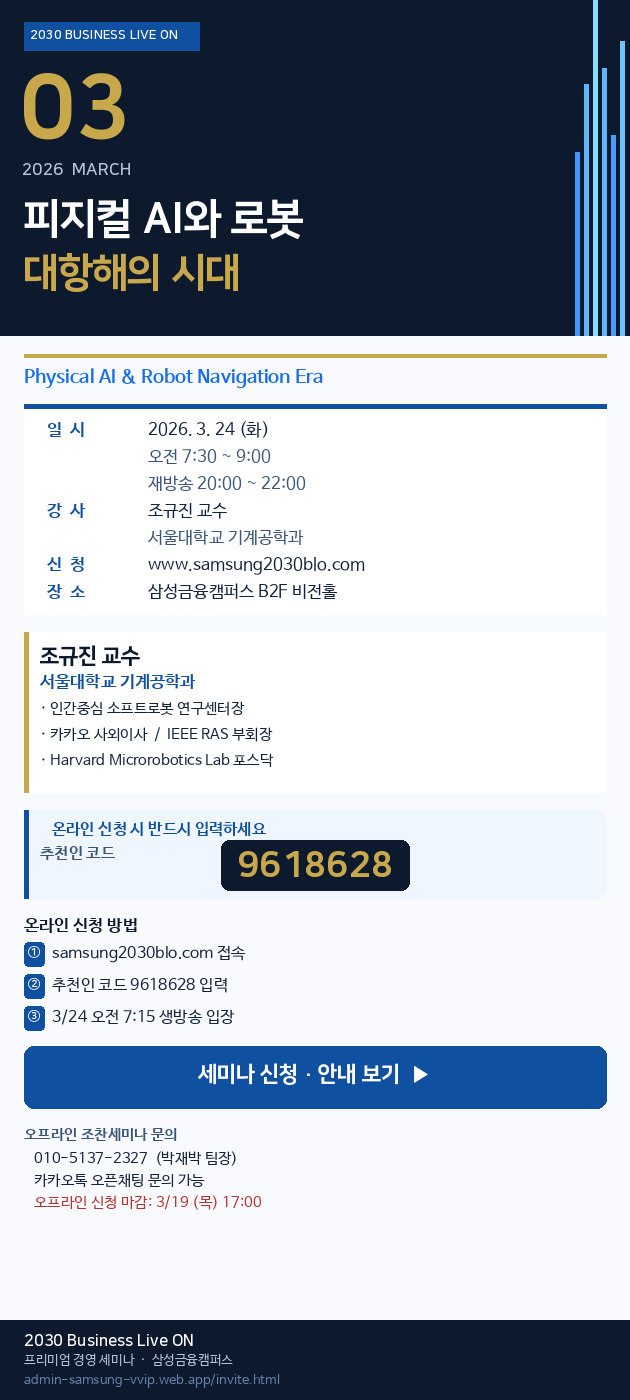
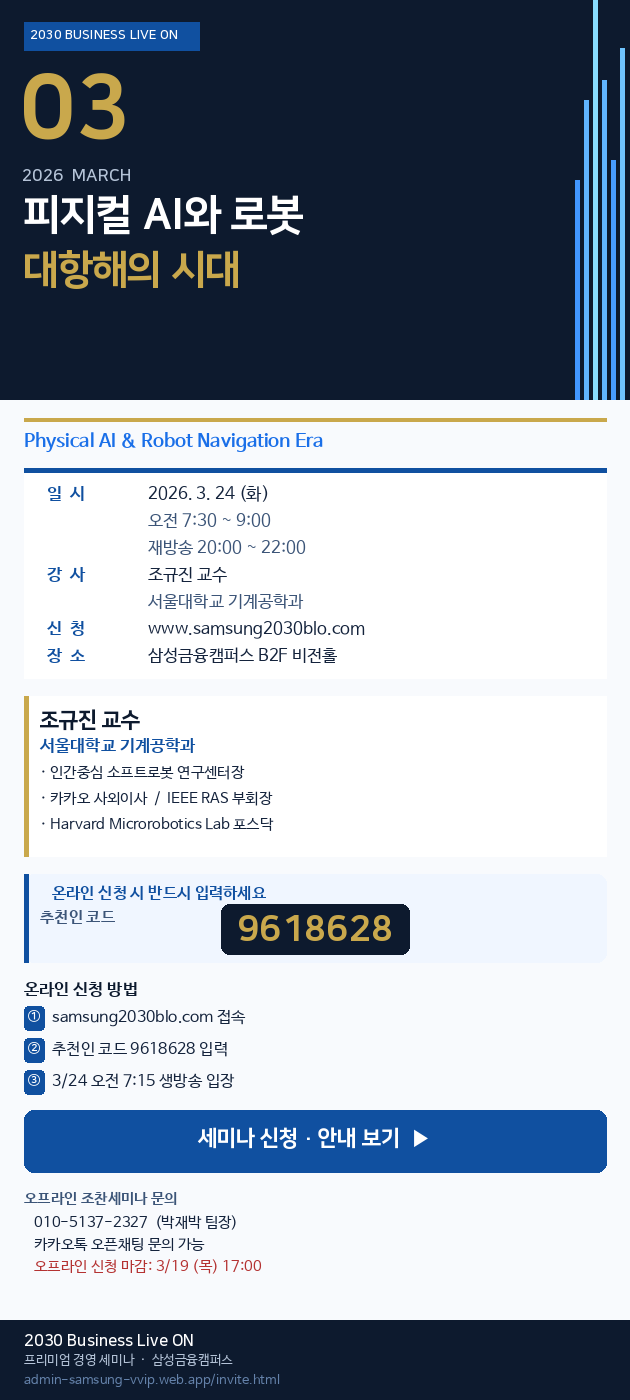
fix: HDR 400px 고정으로 제목 잘림 완전 해결

diff --git a/scripts/gen_og_image.py b/scripts/gen_og_image.py
@@ -184,100 +184,61 @@ def make_wide_og(out_path):
 # 세로형 카드 630×1200 (카톡 이미지 첨부용)
 # ══════════════════════════════════════════════════
 def make_vertical_card(out_path):
-    W, H = 630, 1400
+    W, H   = 630, 1400
+    HDR    = 400   # 헤더 고정 높이 (충분한 여백)
+
+    # Y 좌표 고정값 (실측 기준)
+    Y_BADGE = 22
+    Y_NUM   = 60    # 03
+    Y_MARCH = 166   # 2026 MARCH
+    Y_T1    = 192   # 피지컬 AI와 로봇
+    Y_T2    = 248   # 대항해의 시대  (끝 y ≈ 295, HDR=400 이므로 여백 105px)
 
     # ── 폰트 로드 ──
-    fb  = load_font(F_BOLD,  13)
-    fmn = load_font(F_BLACK, 90)
-    fmy = load_font(F_BOLD,  17)
-    ft  = load_font(F_BLACK, 42)
-    ft2 = load_font(F_BLACK, 40)
-    fsub   = load_font(F_BOLD2, 19)
-    fcard_l = load_font(F_BOLD2, 17)
+    fb      = load_font(F_BOLD,    13)
+    fmn     = load_font(F_BLACK,   90)
+    fmy     = load_font(F_BOLD,    17)
+    ft      = load_font(F_BLACK,   42)
+    ft2     = load_font(F_BLACK,   40)
+    fsub    = load_font(F_BOLD2,   19)
+    fcard_l = load_font(F_BOLD2,   17)
     fcard_r = load_font(F_REGULAR, 17)
-    fprof_t = load_font(F_BLACK, 22)
-    fprof_s = load_font(F_BOLD2, 17)
+    fprof_t = load_font(F_BLACK,   22)
+    fprof_s = load_font(F_BOLD2,   17)
     fprof_r = load_font(F_REGULAR, 15)
-    fcode_t = load_font(F_BOLD2, 16)
-    fcode_v = load_font(F_BLACK, 36)
-    fstep_t = load_font(F_BOLD2, 17)
+    fcode_t = load_font(F_BOLD2,   16)
+    fcode_v = load_font(F_BLACK,   36)
+    fstep_t = load_font(F_BOLD2,   17)
     fstep_r = load_font(F_REGULAR, 16)
-    fbtn    = load_font(F_BLACK, 22)
+    fbtn    = load_font(F_BLACK,   22)
     foff    = load_font(F_REGULAR, 15)
-    foff_b  = load_font(F_BOLD2, 15)
-    ffoot_t = load_font(F_BOLD, 16)
+    foff_b  = load_font(F_BOLD2,   15)
+    ffoot_t = load_font(F_BOLD,    16)
     ffoot_r = load_font(F_REGULAR, 13)
 
-    # ── 1단계: 임시 이미지에 헤더 요소 그려서 실제 픽셀 끝 측정 ──
-    tmp = Image.new("RGB", (W, 600), NAVY)
-    td  = ImageDraw.Draw(tmp)
-
-    PAD = 22
-    y = PAD
-
-    # 뱃지
-    td.rectangle([24, y, 24+175, y+28], fill=BLUE)
-    td.text((30, y+5), "2030 BUSINESS LIVE ON", font=fb, fill=WHITE)
-    y += 38  # 뱃지 높이+여백
-
-    # 숫자 03
-    y_num = y
-    td.text((20, y_num), "03", font=fmn, fill=GOLD)
-    y += 100  # 숫자 높이
-
-    # 2026 MARCH
-    y_march = y
-    td.text((22, y_march), "2026  MARCH", font=fmy, fill=MID_GRAY)
-    y += 28
-
-    # 제목1
-    y_t1 = y + 8
-    td.text((24, y_t1), "피지컬 AI와 로봇", font=ft, fill=WHITE)
-    y = y_t1 + 55  # 충분한 줄 간격
-
-    # 제목2
-    y_t2 = y
-    td.text((24, y_t2), "대항해의 시대", font=ft2, fill=GOLD)
-
-    # 실제 렌더링된 픽셀의 최하단 y 좌표 스캔
-    last_text_y = y_t2
-    for scan_y in range(y_t2 + 10, y_t2 + 80):
-        row_has_text = False
-        for scan_x in range(20, W - 70):
-            px = tmp.getpixel((scan_x, scan_y))
-            # 네이비 배경(13,26,46)과 다른 픽셀 = 텍스트
-            if not (8 <= px[0] <= 20 and 20 <= px[1] <= 35 and 40 <= px[2] <= 55):
-                row_has_text = True
-                break
-        if row_has_text:
-            last_text_y = scan_y
-
-    HDR = last_text_y + 45  # 실측 하단 + 45px 여백
-
-    # ── 2단계: 실제 이미지 그리기 ──
     img  = Image.new("RGB", (W, H), WHITE)
     draw = ImageDraw.Draw(img)
 
-    # 헤더 배경
+    # ── 헤더 배경 ──
     draw.rectangle([0, 0, W, HDR], fill=NAVY)
 
-    # 오른쪽 장식 세로선
+    # 오른쪽 장식 세로선 (헤더 오른쪽에만)
     for i, (hr, c) in enumerate([(0.55,40),(0.75,70),(1.0,110),(0.80,70),(0.60,45),(0.88,85)]):
         bh = int(HDR * hr)
         lc = tuple(min(255, LIGHT_BLUE[j]+c) for j in range(3))
         draw.rectangle([W-55+i*9, HDR-bh, W-51+i*9, HDR], fill=lc)
 
     # BLO 뱃지
-    draw.rectangle([24, PAD, 24+175, PAD+28], fill=BLUE)
-    draw.text((30, PAD+5), "2030 BUSINESS LIVE ON", font=fb, fill=WHITE)
+    draw.rectangle([24, Y_BADGE, 24+175, Y_BADGE+28], fill=BLUE)
+    draw.text((30, Y_BADGE+5), "2030 BUSINESS LIVE ON", font=fb, fill=WHITE)
 
-    # 숫자·연월·제목 (임시와 동일한 y 좌표)
-    draw.text((20, y_num),   "03",           font=fmn, fill=GOLD)
-    draw.text((22, y_march), "2026  MARCH",  font=fmy, fill=MID_GRAY)
-    draw.text((24, y_t1),    "피지컬 AI와 로봇", font=ft,  fill=WHITE)
-    draw.text((24, y_t2),    "대항해의 시대",    font=ft2, fill=GOLD)
+    # 숫자 · 연월 · 제목
+    draw.text((20, Y_NUM),   "03",              font=fmn, fill=GOLD)
+    draw.text((22, Y_MARCH), "2026  MARCH",     font=fmy, fill=MID_GRAY)
+    draw.text((24, Y_T1),    "피지컬 AI와 로봇", font=ft,  fill=WHITE)
+    draw.text((24, Y_T2),    "대항해의 시대",    font=ft2, fill=GOLD)
 
-    # 본문 배경
+    # ── 본문 배경 ──
     draw.rectangle([0, HDR, W, H], fill=(248, 250, 253))
 
     # 구분선 + 부제목
@@ -367,7 +328,7 @@ def make_vertical_card(out_path):
 
     img.save(out_path, "PNG", optimize=True)
     size_kb = os.path.getsize(out_path) // 1024
-    print(f"✅ 세로형 저장: {out_path}  ({size_kb} KB)  HDR={HDR}px  제목끝={last_text_y}px")
+    print(f"✅ 세로형 저장: {out_path}  ({size_kb} KB)  HDR={HDR}px")
 
 
 
